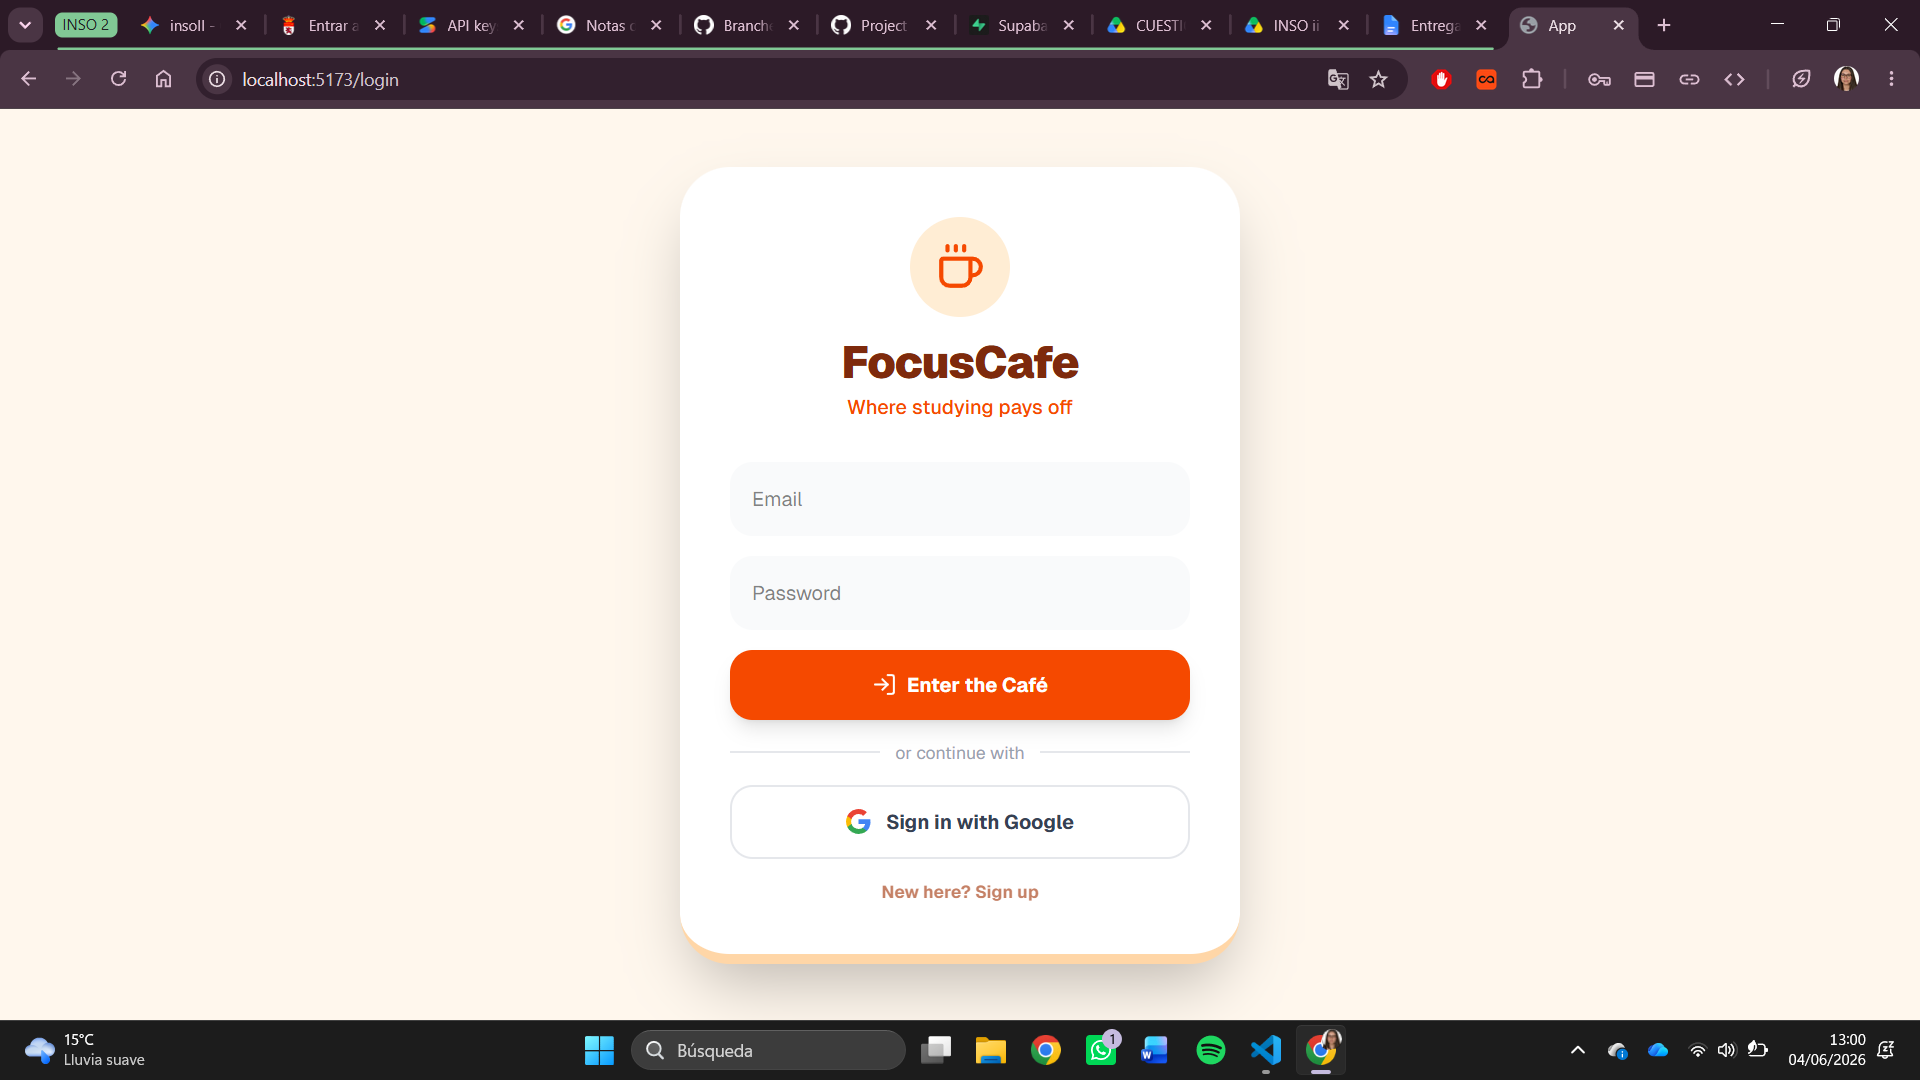
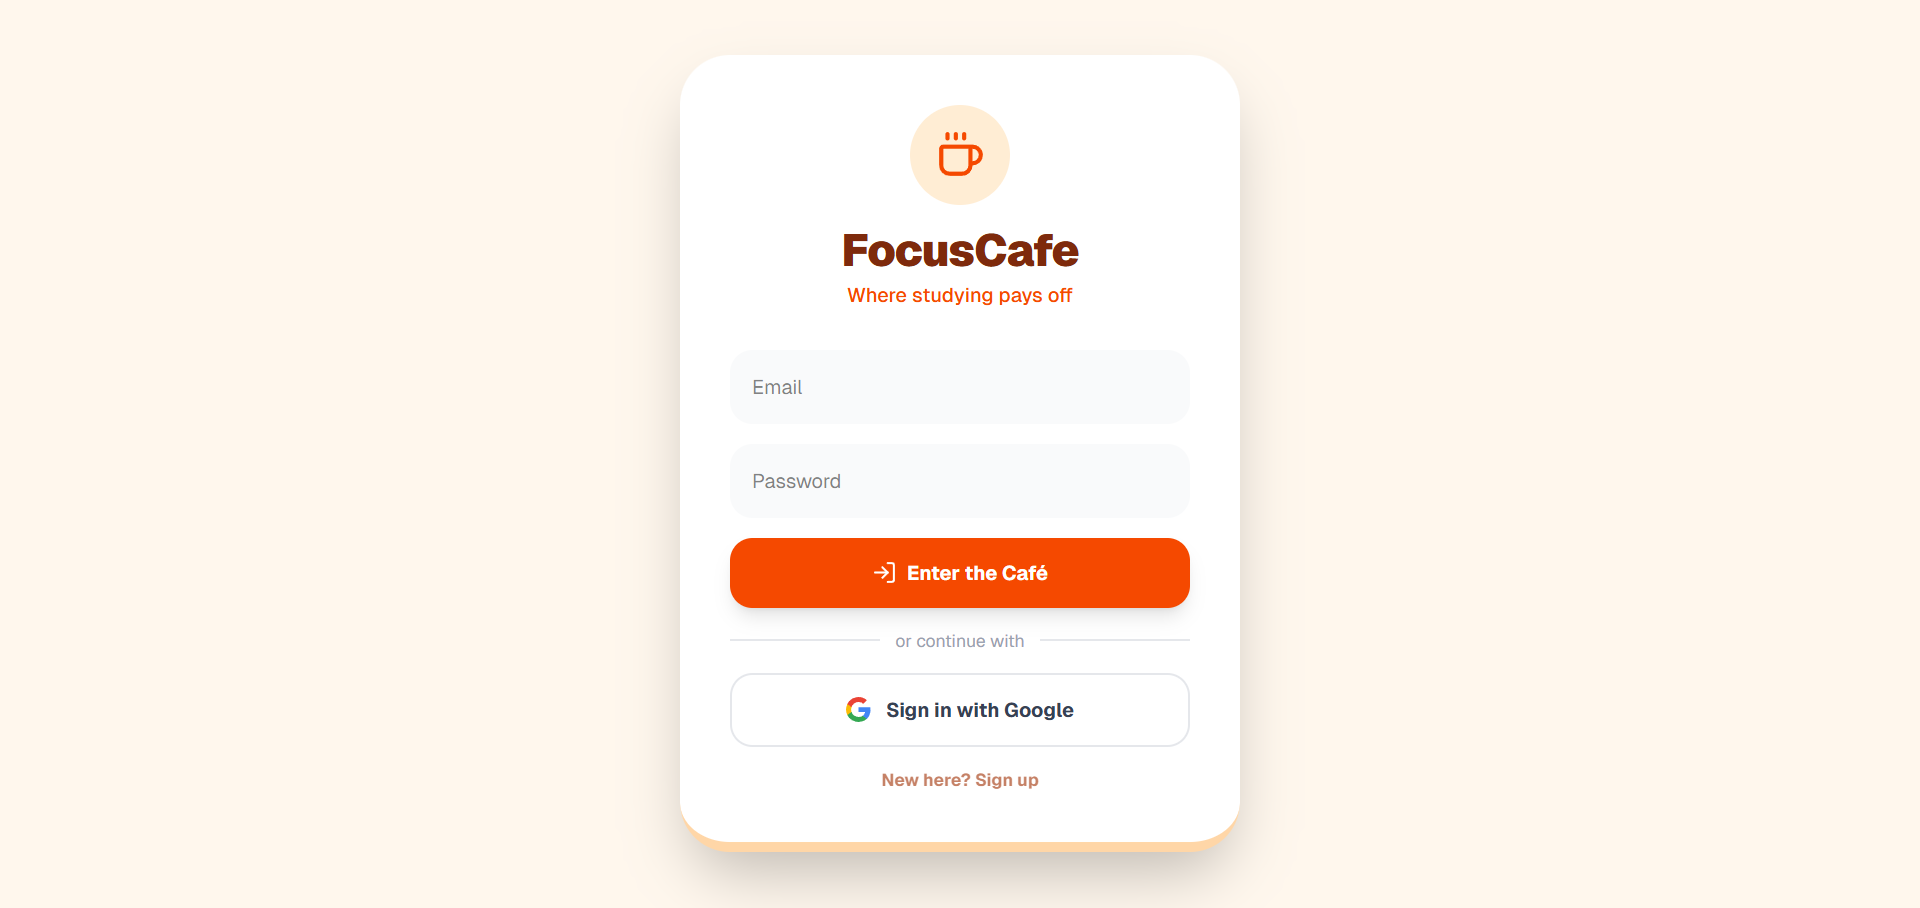
Documentation: updated user guides with images to enhace understanding

diff --git a/docs/user_guide.md b/docs/user_guide.md
@@ -1,54 +1,102 @@
 # FocusCafe End-User Guide
 
+![focusCafe Logo](./images/logo.png)
+
 Welcome to the **FocusCafe** User Guide. This manual is designed to help students navigate the platform, manage their study sessions, generate AI-driven quizzes, and participate in collaborative study teams.
 
 ---
 
-## Authentication and Onboarding
+## 1. Authentication and Onboarding
 
 The entry point of the application provides a flexible identity management system integrated via Supabase.
 
 * **Standard Authentication:** Users can register an account by providing their First Name, Last Name, Email, and a secure password. Existing members can log in using their registered email credentials.
 * **Google Single Sign-On (SSO):** For a faster onboarding experience, users can seamlessly sign up or log in using the **Sign in with Google** integration.
 
+![Sign In](./images/sign_in.png)
+![Sign Up](./images/sign_up.png)
+
 ---
 
-## 3.2. The Dashboard (Main Cafeteria Overview)
+## 2. The Dashboard (Main Cafeteria Overview)
+
+![Cafeteria](./images/home.png)
 
 Once authenticated, users are redirected to the central workspace. The interface is broken down into intuitive diagnostic modules:
 
-### 3.2.1. Top Navigation Control Bar
+### 2.1. Top Navigation Control Bar
+
+![Navigation Bar](./images/navigation_bar.png)
+
 Located at the top right of the screen, the navigation cluster provides structural shortcuts (ordered from left to right):
+
 1. **Team Workspace Entry:** Fields to input an *Invite Code* to join an existing group, or create a *New Team* instantly.
+
+    ![Team Created](./images/team_created.png)
+
 2. **Global Leaderboard (Trophy Icon):** Displays global student rankings based on accumulated experience points (XP).
+
+    ![Leaderboard](./images/leader_board.png)
+
 3. **User Profile (Graduation Cap Icon):** Accesses specialized personal telemetry, showing historical metadata such as the registration date (`Member Since`) and profile adjustments.
+
+    ![User Profile](./images/profile_dashboard.png)
+    ![Profile Adjustments](./images/edit_profile.png)
+
 4. **Logout Button:** Securely destroys the local active session token.
 
-### 3.2.2. Interactive Interface Cards
-* **Player Stats:** Displays the user's current Progression Level, available **Energy** capacity (e.g., `589 / 500`), and absolute **Experience (XP)** points.
-* **Pending Orders:** Individual gamified gamification achievements that can be unlocked ("Completed") by spending focus energy to secure massive XP bonuses (e.g., ordering an *Espresso & Croissant* to exchange energy for focus gains).
+### 2.2. Interactive Interface Cards
+
+![Interface Cards](./images/main_dashboard.png)
+
+* **Player Stats:** Displays the user's current Progression Level, available **Energy** capacity, and absolute **Experience (XP)** points.
+
+* **Pending Orders:** Individual gamification achievements that can be unlocked ("Completed") by spending focus energy to secure massive XP bonuses.
+
 * **Group Orders:** Shared interactive orders. If a user belongs to a collaborative team, group objectives and synchronized orders appear here for collective progression.
 
 ---
 
-## 3.3. Core Workflow: "Study & Brew" Session
+## 3. Core Workflow: "Study & Brew" Session
+
+![Brew Coffe](./images/brew_coffe.png)
 
 The primary engine of the platform transforms study intervals into interactive milestones through the following linear flow:
 
 ### Step 1: Session Configuration
+
 Clicking the **Brew Coffee (Study)** action button on the dashboard opens the deployment menu:
+
 * **Material Upload:** A dedicated file attachment dropzone allows the user to upload an academic resource in **PDF format**.
-* **Timer Selection:** A numerical configuration slot controls the focus runtime allocation in minutes (e.g., the standard 25-minute Pomodoro setting).
+
+* **Timer Selection:** A numerical configuration slot controls the focus runtime allocation in minutes (like the standard 25-minute Pomodoro setting).
+
+![Session Configuration](./images/prepare_study_session.png)
 
 ### Step 2: Active Focus Period
-Clicking **Start Brewing** initiates a non-blocking fullscreen countdown timer. The engine extracts the text from the uploaded PDF document in the background while displaying motivational indicators (e.g., *"Brewing knowledge... stay focused!"*). Users can skip directly to the evaluation if necessary.
+
+Clicking **Start Brewing** initiates a non-blocking fullscreen countdown timer. The engine extracts the text from the uploaded PDF document in the background while displaying motivational indicators (e.g., *"Brewing knowledge... stay focused!"*).
+
+![Focus Period](./images/study_session.png)
 
 ### Step 3: AI Quiz Generation & Evaluation
-When the focus timer expires, the backend automatically forwards the document content to the **Google Gemini AI** engine. The interface immediately renders a dynamic, multiple-choice questionnaire generated directly from the student's specific material. 
+
+When the focus timer expires, the backend automatically forwards the document content to the **Google Gemini AI** engine. The interface renders a dynamic, multiple-choice questionnaire generated directly from the student's specific material.
+
+![Crafting Test](./images/ai_making_test.png)
+![Questions](./images/test_done.png)
+![Submit Asnwers](./images/submit_test.png)
 
 ### Step 4: Performance Review and Rewards
+
+![Performance Review](./images/session_complete.png)
+
 Upon clicking **Submit Answers**, the application processes the inputs and yields an analytical summary scorecard:
+
 * **Reward Distribution:** Displays the final grade performance ratio (e.g., `1 out of 5 questions`) and adds the newly generated **Focus Energy points** straight to the student's wallet.
+
 * **Granular Explanations:** Every question is displayed with explicit text indicators highlighting wrong choices, the correct response, and a rigorous contextual paragraph explaining *why* that answer is academically correct based on the source PDF material.
 
 Clicking **Return to Cafeteria** synchronizes the profile metrics and safely redirects the student back to the updated central dashboard.
+
+![Cafeteria Synchronized](./images/new_dashboard.png)
